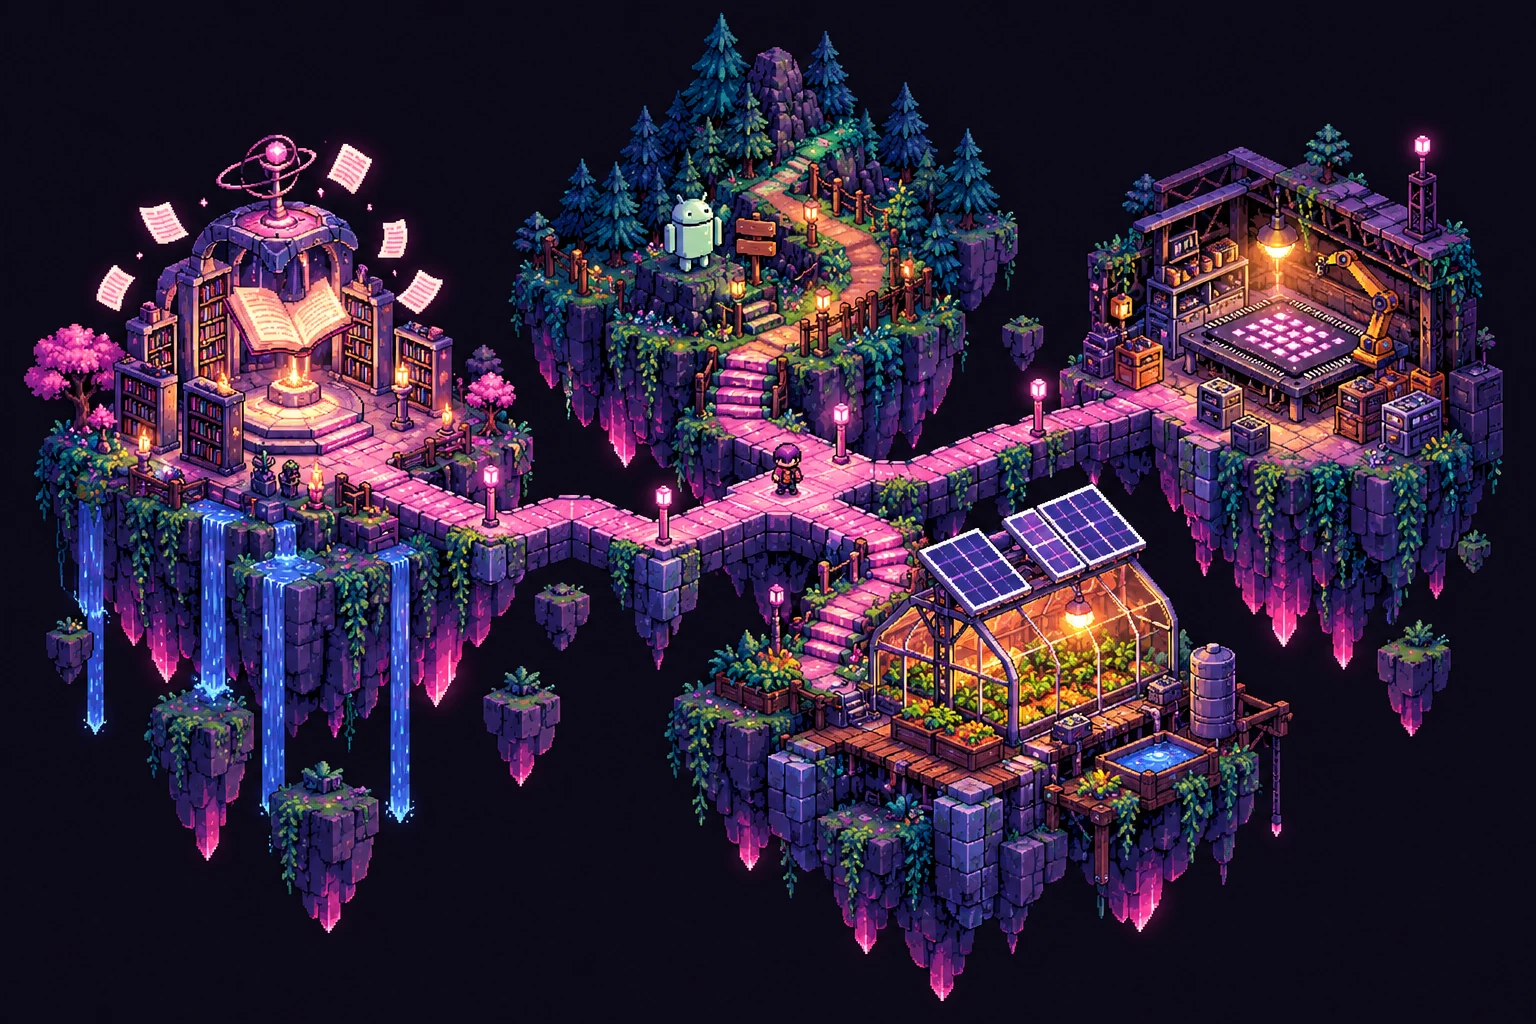
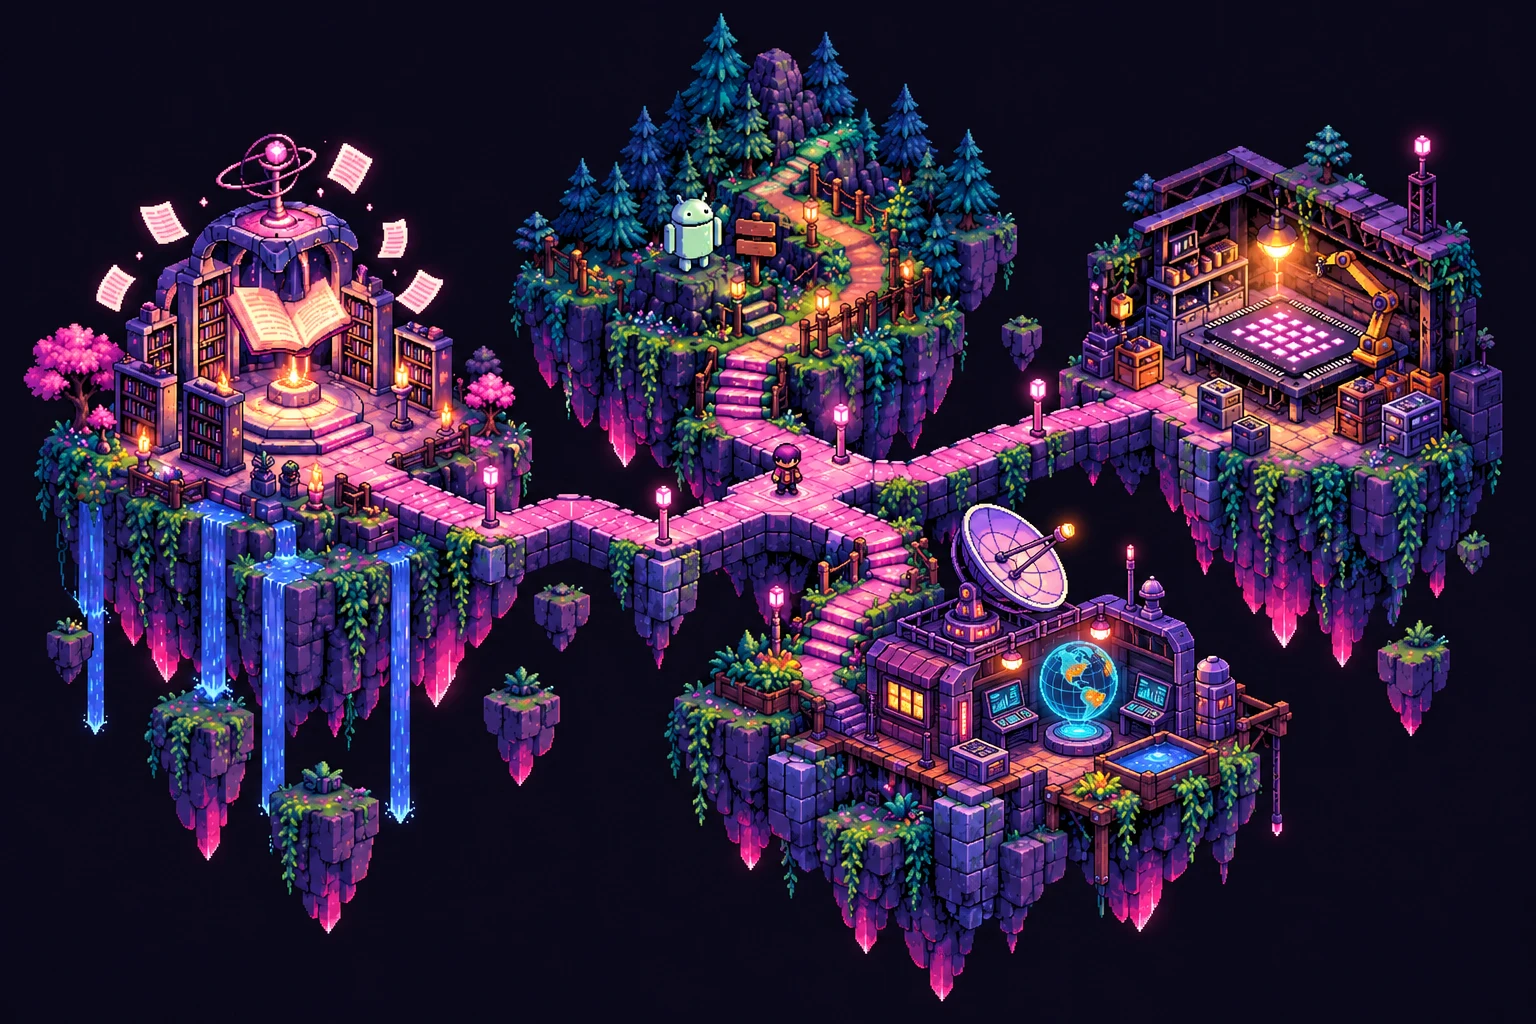
Feature Fire Record Atlas in the portfolio

Changed region(s): [[0.0, 0.0312, 0.9688, 0.9688]]

diff --git a/src/App.jsx b/src/App.jsx
@@ -9,12 +9,12 @@ import "./neon-portfolio.css";
 const EMAIL = "rajeevbharath2@gmail.com";
 const LINKEDIN = "https://www.linkedin.com/in/bharath-rajeev-9a5b40311/";
 const GITHUB = "https://github.com/Rajapanreturns";
-const NAMES = ["DAS", "StayOnTrail", "Survivor", "Solar Dehydrator"];
+const NAMES = ["DAS", "StayOnTrail", "Survivor", "Fire Record Atlas"];
 const PURPOSES = [
   "AI-assisted dyslexia assessment review",
   "Android task planning with AI",
   "An FPGA arcade game",
-  "Solar-powered food drying",
+  "Satellite fire data & harmonization",
 ];
 const DESTINATIONS = [
   ["Projects", "work"],
@@ -193,22 +193,17 @@ function ProjectDialog({ projectIndex, onClose }) {
           )}
           {projectIndex === 2 && <HardwareDiagram />}
           {projectIndex === 3 && (
-            <>
-              <p className="project-award">
-                Best Project · Designing Energy Systems
-              </p>
-              <figure className="solar-proof">
-                <img
-                  src="/images/solar-collector.png"
-                  alt="Solar collector design from the project presentation, showing heat absorption and airflow"
-                  width="308"
-                  height="219"
-                />
-                <figcaption>
-                  Solar collector design from the project presentation
-                </figcaption>
-              </figure>
-            </>
+            <figure className="atlas-proof">
+              <img
+                src="/images/fire-record-atlas.png"
+                alt="Fire Record Atlas home screen showing a globe of March fire detections, nine study regions and a seasonality chart"
+                width="1440"
+                height="900"
+              />
+              <figcaption>
+                Fire Record Atlas · Global hotspots and seasonal patterns
+              </figcaption>
+            </figure>
           )}
           <h3>Contributions & technical work</h3>
           <ul className="contribution-list">
@@ -223,14 +218,26 @@ function ProjectDialog({ projectIndex, onClose }) {
             ))}
           </div>
           {project.link && (
-            <a
-              className="solid-link"
-              href={project.link}
-              target="_blank"
-              rel="noopener noreferrer"
-            >
-              View GitHub repository <Arrow diagonal />
-            </a>
+            <div className="project-actions">
+              <a
+                className="solid-link"
+                href={project.link}
+                target="_blank"
+                rel="noopener noreferrer"
+              >
+                View GitHub repository <Arrow diagonal />
+              </a>
+              {project.demo && (
+                <a
+                  className="solid-link"
+                  href={project.demo}
+                  target="_blank"
+                  rel="noopener noreferrer"
+                >
+                  Open live atlas <Arrow diagonal />
+                </a>
+              )}
+            </div>
           )}
         </div>
       )}

diff --git a/src/ArcadeWorld.jsx b/src/ArcadeWorld.jsx
@@ -46,18 +46,19 @@ const OPTIONS = [
     tags: ["FPGA", "Digital logic", "LED matrix"],
   },
   {
-    name: "Solar Dehydrator",
-    purpose: "Solar-powered food drying",
+    name: "Fire Record Atlas",
+    purpose: "NASA Space Apps Challenge",
+    mapLabel: "Fire Atlas",
     headline: (
       <>
-        Food drying,
+        25 years of fire detections,
         <br />
-        powered by the sun.
+        seen from space.
       </>
     ),
     summary:
-      "A low-cost solar dehydrator exploring heat transfer, airflow and battery-backed operation to reduce post-harvest spoilage.",
-    tags: ["Heat transfer", "Solar", "Hardware"],
+      "Explore burning seasons across nine regions and see how changing satellite sensors affects the fire record.",
+    tags: ["Geospatial data", "Satellite imagery", "Data visualization"],
   },
 ];
 function Arrow({ previous = false }) {
@@ -148,7 +149,7 @@ export default function ArcadeWorld({ onProject, motion }) {
               width="1536"
               height="1024"
               fetchPriority="high"
-              alt="An illustrated arcade world: a reading library, forest trail, electronics workshop and solar greenhouse connected by pink paths."
+              alt="An illustrated arcade world with a reading library, forest trail, electronics workshop and satellite observatory connected by pink paths."
             />
             {OPTIONS.map((item, index) => (
               <button
@@ -159,7 +160,7 @@ export default function ArcadeWorld({ onProject, motion }) {
                 aria-label={`Select ${item.name}, ${item.purpose}`}
                 onClick={(event) => select(index, event.detail !== 0)}
               >
-                {index === 3 ? "Solar" : item.name}
+                {item.mapLabel ?? item.name}
               </button>
             ))}
             <span className="art-caption">Illustrated project world</span>

diff --git a/src/data.js b/src/data.js
@@ -50,17 +50,18 @@ export const PROJECTS = [
     ],
   },
   {
-    title: "Solar-Powered Food Dehydrator",
-    category: "Sustainable Engineering",
-    icon: "SUN",
-    link: "https://github.com/Rajapanreturns/Heat-Exchanger",
-    tools: ["Solar PV", "Battery Sizing", "Thermal Testing", "Sensors"],
+    title: "Fire Record Atlas — NASA Space Apps Challenge",
+    category: "Geospatial Data & Visualization",
+    icon: "MAP",
+    link: "https://github.com/Rajapanreturns/fire-record-atlas",
+    demo: "https://rajapanreturns.github.io/fire-record-atlas/",
+    tools: ["Python", "DuckDB", "JavaScript", "D3.js", "NASA FIRMS"],
     description:
-      "Low-cost solar dehydrator designed to reduce post-harvest spoilage, recognized as Best Project for Designing Energy Systems.",
+      "Built for the 2026 NASA Space Apps Challenge, Fire Record Atlas explores 25 years of satellite fire detections and shows when data from different sensors can be compared.",
     highlights: [
-      "Calculated energy budget using panel sizing, battery Wh, and peak sun hours.",
-      "Integrated solar charge control and battery-backed operation.",
-      "Tested temperature, humidity, airflow, and drying performance.",
+      "Processed NASA FIRMS archives into monthly daytime hotspot counts with Python and DuckDB.",
+      "Built an interactive globe and burning calendars for nine study regions, with a side-by-side view of estimated and measured counts.",
+      "Converted VIIRS counts to the Aqua MODIS scale. In a five-region NOAA-20 test, 200 of 215 held-out monthly Aqua counts fell within the 90% prediction intervals.",
     ],
   },
 ];

diff --git a/src/neon-portfolio.css b/src/neon-portfolio.css
@@ -846,18 +846,14 @@
   color: var(--light);
   margin-top: 30px;
 }
-.dialog-content > .solid-link {
+.project-actions {
+  display: flex;
+  flex-wrap: wrap;
+  gap: 12px;
   margin-top: 32px;
 }
 .dialog-content .tags {
   margin-top: 17px;
-}
-.project-award {
-  padding: 12px 15px;
-  color: #f4c7e2;
-  background: #39243b;
-  font-size: 14px;
-  margin-top: 25px;
 }
 .assessment-flow {
   margin-top: 28px;
@@ -923,23 +919,21 @@
   border-radius: 18px;
 }
 .project-screens figcaption,
-.solar-proof figcaption {
+.atlas-proof figcaption {
   font-size: 12px;
   color: #c0b1c8;
   text-align: center;
   margin-top: 19px;
   line-height: 1.5;
 }
-.solar-proof {
+.atlas-proof {
   padding: 25px;
   background: #171322;
   margin: 25px 0 0;
 }
-.solar-proof img {
-  margin: auto;
-  width: 370px;
+.atlas-proof img {
+  width: 100%;
   height: auto;
-  max-width: 100%;
 }
 .hardware-proof {
   color: #c597e5;
@@ -1733,7 +1727,7 @@
     border-radius: 12px;
   }
   .project-screens figcaption,
-  .solar-proof figcaption {
+  .atlas-proof figcaption {
     font-size: 11px;
   }
   .hardware-proof {
@@ -1742,12 +1736,8 @@
   .hardware-proof p {
     font-size: 11px;
   }
-  .solar-proof {
+  .atlas-proof {
     padding: 17px;
-  }
-  .project-award {
-    font-size: 12px;
-    padding: 11px 12px;
   }
   .command-panel {
     padding: 17px;
@@ -1782,7 +1772,7 @@
   .command-empty {
     font-size: 13px;
   }
-  .dialog-content > .solid-link {
+  .project-actions {
     margin-top: 27px;
   }
 }

diff --git a/src/CommandMenu.jsx b/src/CommandMenu.jsx
@@ -4,7 +4,7 @@ const PROJECT_NAMES = [
   "DAS — Dyslexia assessment tool",
   "StayOnTrail — Android task planner",
   "Survivor — FPGA arcade game",
-  "Solar-powered food dehydrator",
+  "Fire Record Atlas — NASA Space Apps Challenge",
 ];
 
 export default function CommandMenu({

diff --git a/README.md b/README.md
@@ -40,10 +40,10 @@ The command menu supports search, arrow-key navigation, Enter, and Escape. Secti
 
 ## Assets
 
-- `public/images/neon-world.webp`: original AI-generated pixel landscape from the approved Neon remix prototype; optimized to approximately 381 KB. Decorative artwork, not a project screenshot.
+- `public/images/neon-world.webp`: pixel-art landscape from the Neon remix prototype, updated with a satellite observatory for Fire Record Atlas.
 - `public/fonts/`: locally served DM Sans and Pixelify Sans font files, carried over from the approved prototype.
 - `stayontrail-home.png` and `stayontrail-forest.png`: actual app images from the public [StayOnTrail poster](https://github.com/Rajapanreturns/StayOnTrail/blob/main/Stay%20On%20Trail%20Poster.pdf).
-- `solar-collector.png`: collector design from the public [Heat-Exchanger presentation](https://github.com/Rajapanreturns/Heat-Exchanger/blob/main/Solar%20Oven/PPT.pdf).
+- `fire-record-atlas.png`: screenshot from the [Fire Record Atlas repository](https://github.com/Rajapanreturns/fire-record-atlas/blob/main/docs/atlas-home.png).
 - The DAS workflow is an original illustrative interface with fictional example content, not an actual assessment result.
 - The Survivor diagram, pixel garden, route paths, and favicon are local SVG/CSS artwork.
 
@@ -51,4 +51,4 @@ The command menu supports search, arrow-key navigation, Enter, and Escape. Secti
 
 No new runtime dependencies were added. Lint and production build pass.
 
-The production preview was checked in the browser at 320, 390, 768 pixels and desktop width. No horizontal page overflow, broken project images, console warnings, or console errors were observed. Checks covered section anchors, mobile menu dismissal, command search and Enter selection, project dialogs and Escape focus restoration, the DAS review workflow, original StayOnTrail and solar images, the pixel garden, and the motion toggle. Survivor has no repository link or playable game.
+The production preview was checked in the browser at 320, 390, 768 pixels and desktop width. No horizontal page overflow, broken project images, console warnings, or console errors were observed. Checks covered section anchors, mobile menu dismissal, command search and Enter selection, project dialogs and Escape focus restoration, the DAS review workflow, project images, the pixel garden, and the motion toggle. Survivor has no repository link or playable game.
